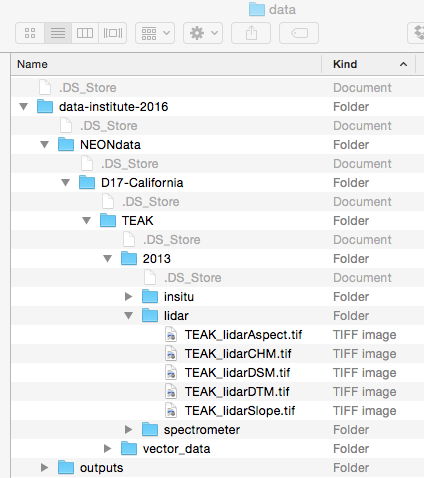
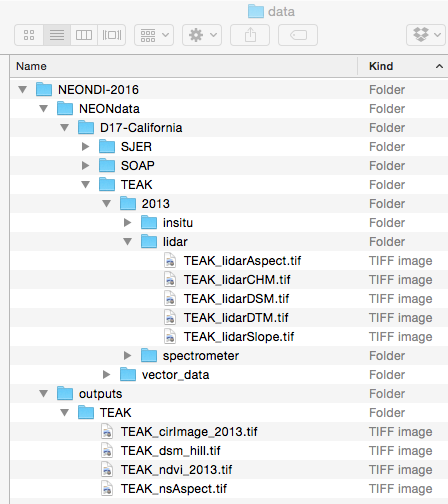
data directory updated to NEONDI-2016

Changed region(s): [[0.0, 0.0, 1.0, 1.0]]

diff --git a/_posts/pre-institute-materials/pre-institute3-rmd/2016-06-20-Rmd03-knitr.md b/_posts/pre-institute-materials/pre-institute3-rmd/2016-06-20-Rmd03-knitr.md
@@ -5,7 +5,7 @@ description: "This tutorial introduces how to use the R knitr package to publish
 from R Markdown files to HTML (or other) file format."
 date: 2016-05-17
 dateCreated: 2016-01-01
-lastModified: 2016-06-09
+lastModified: 2016-06-10
 estimatedTime:
 packagesLibraries: [knitr, rmarkdown]
 authors:
@@ -134,9 +134,11 @@ required by assignment.
 * Be sure to carefully check your knitr output to make sure it is rendering the
 way you think it should!
 * When you are complete, submit your .Rmd and .html files to the 
-NEON Institute participants GitHub repository (**NEON-WorkWithData/DI16-NEON-participants**).
-* Be sure your file is saved in the **/participants/pre-institute3-rmd/** directory and submitted via 
-a **pull request**.
+NEON Institute participants GitHub repository 
+(**NEON-WorkWithData/DI16-NEON-participants**). 
+* The files will have automatically saved to your R working directory, you will 
+need to transfer the files to the **/participants/pre-institute3-rmd/** 
+directory and submitted via a **pull request**.
 
 </div>
 

diff --git a/_posts/pre-institute-materials/pre-institute3-rmd/2016-06-20-Rmd02-RMarkdown.md b/_posts/pre-institute-materials/pre-institute3-rmd/2016-06-20-Rmd02-RMarkdown.md
@@ -4,7 +4,7 @@ title: "Document Code with R Markdown"
 description: "This tutorial cover how to use R Markdown files to document code."
 date: 2016-05-18
 dateCreated: 2016-01-01
-lastModified: 2016-06-09
+lastModified: 2016-06-10
 estimatedTime:
 packagesLibraries: [knitr, rmarkdown]
 authors:
@@ -55,7 +55,7 @@ your computer to complete this tutorial.
 {% include/dataSubsets/_data_Data-Institute-16-TEAK.html %}
 
 You will want to create a **data** directory for all the Data Institute teaching 
-data sets. We suggest the pathway be `~/Documents/data/data-institute-2016` or 
+data sets. We suggest the pathway be `~/Documents/data/NEONDI-2016` or 
 the equivalent for your operating system. Once you've downloaded and unzipped 
 the dataset, move it to this directory. 
 
@@ -251,7 +251,7 @@ in R, and sets the working directory.
    library(raster)
 
    # set working directory to ensure R can find the file we wish to import
-   setwd("~/Documents/data/data-institute-2016/")
+   setwd("~/Documents/data/NEONDI-2016/")
 
  ```</code></pre>
 

diff --git a/_posts/pre-institute-materials/pre-institute3-rmd/2016-06-20-Rmd04-Week3Activity.md b/_posts/pre-institute-materials/pre-institute3-rmd/2016-06-20-Rmd04-Week3Activity.md
@@ -4,7 +4,7 @@ title: "Pre-Institute Week 3 Assignment"
 description: "This page details how to complete the assignment for pre-Institute week 3."
 date: 2016-05-16
 dateCreated: 2016-01-01
-lastModified: 2016-06-09
+lastModified: 2016-06-10
 estimatedTime:
 packagesLibraries:
 authors:
@@ -47,7 +47,7 @@ Figshare repository.
 2. Unzip the data into (or transfer the unzipped data into) a `data` directory 
 on your computer. The path to your data will look like this:
 
-`~Documents\data\data-institute-2016\`
+`~Documents\data\NEONDI-2016\`
 
 <figure>
 	<a href="{{ site.baseurl }}/images/pre-institute-content/pre-institute3-rmd/FileStructureScreenShot.png">
@@ -59,7 +59,7 @@ on your computer. The path to your data will look like this:
 	</figcaption>
 </figure>
 
-We will be using the GeoTIFF raster files in the “lidar” subdirectory of the 
+We will be using the GeoTIFF raster files in the **lidar** subdirectory of the 
 teaching data subset.
 
 ## Create R Markdown File

diff --git a/_posts/pre-institute-materials/pre-institute3-rmd/2016-06-20-Rmd01-DocPubWorkflow.md b/_posts/pre-institute-materials/pre-institute3-rmd/2016-06-20-Rmd01-DocPubWorkflow.md
@@ -4,7 +4,7 @@ title: "Document & Publish Your Workflow: R Markdown & knitr"
 description: "This tutorial introduces the importance of tools supporting documenting & publishing a workflow."
 date: 2016-05-19
 dateCreated: 2016-01-01
-lastModified: 2016-06-09
+lastModified: 2016-06-10
 estimatedTime:
 packagesLibraries:
 authors:
